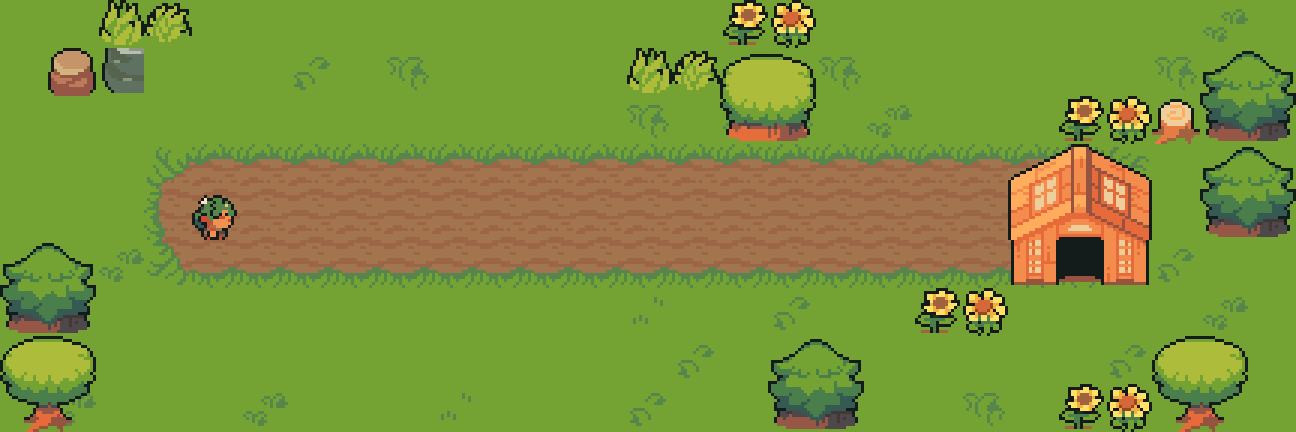
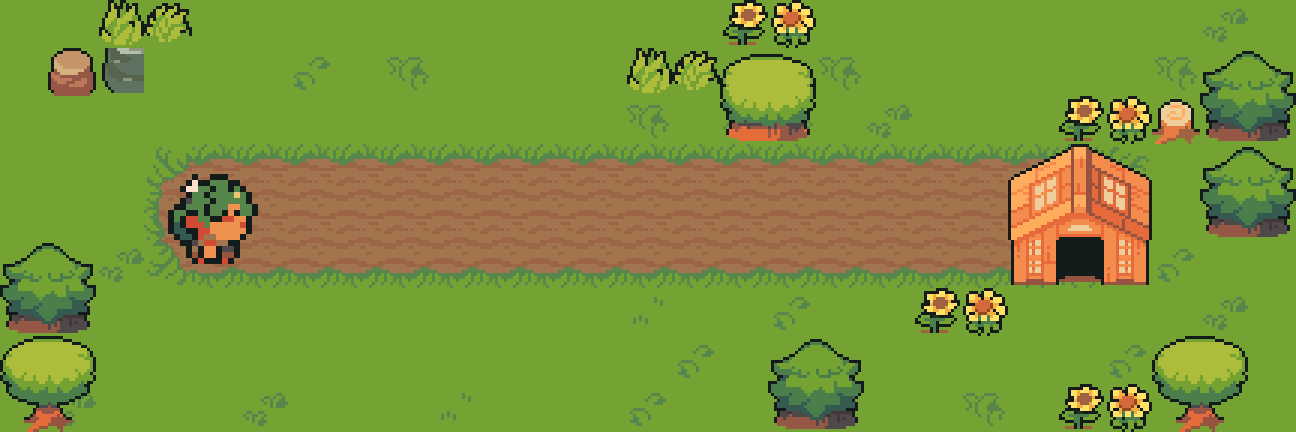
Thealivery : Théa revient, en double taille
- Retour à Théa, la livreuse de thé : le nom Thealivery reste, le sprite
  reste celui de Cavegirl.
- Théa dessinée en 32 x 32, centrée dans sa case de 48 x 48 ; images
  des six niveaux régénérées.
- Nage : tête dans l'eau et ondulations animées du pack, faute
  d'animation de nage pour Cavegirl.

Changed region(s): [[0.1235, 0.3912, 0.216, 0.6319]]

diff --git a/conception/jeu/niveaux/generer.py b/conception/jeu/niveaux/generer.py
@@ -113,7 +113,7 @@ def render(level_id, grid_text, min_cells_w=0):
             img.alpha_composite(d, (x * T, y * T))
             taken |= spots
 
-    # Objets et Théa (Circé) sur les intersections
+    # Objets et Théa sur les intersections
     for r, row in enumerate(rows):
         for c, tok in enumerate(row):
             px, py = cell_px(2 * r, 2 * c)
@@ -124,8 +124,10 @@ def render(level_id, grid_text, min_cells_w=0):
             elif tok == "f":
                 img.alpha_composite(LEAF, (px + T, py + T))
             elif tok.startswith("T"):
+                # Théa en double taille (32 x 32), centrée dans sa case de 48 x 48
                 frame = HERO.crop((HERO_COL[tok[1]] * T, 0, HERO_COL[tok[1]] * T + T, T))
-                img.alpha_composite(frame, (px + T, py + T))
+                frame = frame.resize((2 * T, 2 * T), Image.NEAREST)
+                img.alpha_composite(frame, (px + T // 2, py + T // 2))
     return img
 
 LEVELS = [

diff --git a/conception/jeu/04-conception-du-jeu.md b/conception/jeu/04-conception-du-jeu.md
@@ -439,15 +439,15 @@ la génération des images.
 Choix de Vincent sur les [planches de propositions](propositions/), le 19
 novembre 2026 :
 
-| Élément    | Choix                                                                   |
-| :--------- | :---------------------------------------------------------------------- |
-| Personnage | `Cavegirl` : elle devient **Circé, qui fait des potions**               |
-| Routes     | Terre sur herbe foncée                                                  |
-| Maisons    | Au hasard parmi la boutique, la maison de pierre et le pignon orange    |
-| Obstacles  | Au hasard : une mare, où Circé tombe et nage, ou un trou, où elle tombe |
-| Feuilles   | `TeaLeaf`                                                               |
-| Charrette  | **Abandonnée** : le pack ne la dessine que d'un seul côté               |
-| Décor      | Au hasard parmi les huit éléments proposés                              |
+| Élément    | Choix                                                                            |
+| :--------- | :------------------------------------------------------------------------------- |
+| Personnage | `Cavegirl`, qui incarne **Théa, la livreuse de thé**, en double taille (32 × 32) |
+| Routes     | Terre sur herbe foncée                                                           |
+| Maisons    | Au hasard parmi la boutique, la maison de pierre et le pignon orange             |
+| Obstacles  | Au hasard : une mare, où Théa tombe et nage, ou un trou, où elle tombe           |
+| Feuilles   | `TeaLeaf`                                                                        |
+| Charrette  | **Abandonnée** : le pack ne la dessine que d'un seul côté                        |
+| Décor      | Au hasard parmi les huit éléments proposés                                       |
 
 Les images sont dans [`niveaux/`](niveaux/), produites par
 [`niveaux/generer.py`](niveaux/generer.py) à partir du pack. Les rues font trois
@@ -463,16 +463,16 @@ Deux ajustements techniques :
 - **les coins intérieurs** des rues utilisent les quatre tuiles prévues par le
   pack, pour que l'herbe des pâtés ait des bords nets.
 
-Points ouverts :
+Décisions qui suivent les images :
 
-- **La nage** : seul `NinjaGreen`, le personnage entièrement animé du pack, a
-  une animation de nage. `Cavegirl` a la marche, le saut et la chute, pas la
-  nage. Options : garder `Cavegirl` et montrer seulement sa tête dans l'eau avec
-  les ondulations animées du pack, ou prendre `NinjaGreen`.
-- **La taille de Circé** : 16 pixels dans une case de 48. Lisible, mais petite ;
-  on pourrait l'agrandir deux fois, au prix d'un mélange d'échelles.
-- **Le nom du jeu** : « Thealivery » venait du thé. Avec Circé et ses potions,
-  le garde-t-on ? Que livre-t-elle, et que ramasse-t-elle ?
+- **Personnage** : Vincent a d'abord pensé à Circé et ses potions, puis est
+  revenu à **Théa, la livreuse de thé**. Le nom du jeu, Thealivery, reste. Le
+  sprite reste celui de `Cavegirl`.
+- **Taille** : Théa est dessinée en double taille, 32 × 32 pixels, centrée dans
+  sa case de 48 × 48. Le mélange d'échelles est assumé, pour la lisibilité.
+- **Nage** : `Cavegirl` n'a pas d'animation de nage. Quand elle tombe dans une
+  mare, on ne montrera que sa tête, avec les ondulations animées du pack
+  (`Backgrounds/Animated/Water Ripples`). Dans un trou, elle tombe.
 
 ## Sources
 

diff --git a/conception/jeu/01-cadrage.md b/conception/jeu/01-cadrage.md
@@ -30,10 +30,9 @@ l'état restent visibles.
 
 ## La vision
 
-> **Thealivery.** Théa, ninja du thé, livre ses infusions avec sa charrette dans
-> les rues d'un quartier en grille. On remet dans l'ordre les cartes de sa
-> tournée, des icônes, puis on la regarde exécuter le programme, carte après
-> carte.
+> **Thealivery.** Théa, livreuse de thé, apporte ses infusions dans les rues
+> d'un quartier en grille. On remet dans l'ordre les cartes de sa tournée, des
+> icônes, puis on la regarde exécuter le programme, carte après carte.
 
 Le jeu est une **machine notionnelle** (voir
 l'[état de l'art](02-etat-de-l-art.md)) : une représentation simplifiée de ce
@@ -133,15 +132,15 @@ Critères de réussite, à préciser à l'étape des besoins :
 
 ## Décisions prises
 
-| Question                       | Décision                                                  |
-| :----------------------------- | :-------------------------------------------------------- |
-| Quand joue-t-on ?              | En autonomie et en classe                                 |
-| Qui écrit les niveaux, et où ? | L'enseignant, dans le Markdown des pages                  |
-| Cartes                         | Des icônes uniquement, ni Java ni pseudo-code             |
-| Langage                        | TypeScript, construit avec esbuild et figé dans le dépôt  |
-| Où vit le jeu ?                | Dans les pages des séances                                |
-| Personnage                     | Théa, ninja du thé avec sa charrette, personnage original |
-| Nom du jeu                     | Thealivery                                                |
+| Question                       | Décision                                                 |
+| :----------------------------- | :------------------------------------------------------- |
+| Quand joue-t-on ?              | En autonomie et en classe                                |
+| Qui écrit les niveaux, et où ? | L'enseignant, dans le Markdown des pages                 |
+| Cartes                         | Des icônes uniquement, ni Java ni pseudo-code            |
+| Langage                        | TypeScript, construit avec esbuild et figé dans le dépôt |
+| Où vit le jeu ?                | Dans les pages des séances                               |
+| Personnage                     | Théa, livreuse de thé, personnage original               |
+| Nom du jeu                     | Thealivery                                               |
 
 ### Pourquoi un personnage original
 
